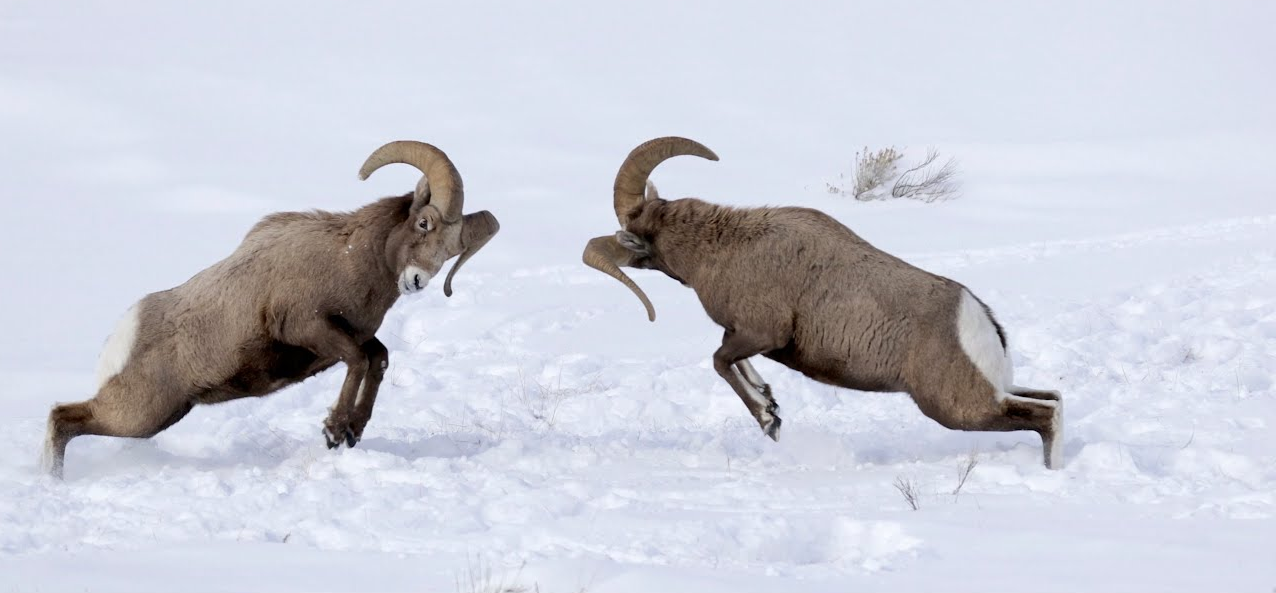
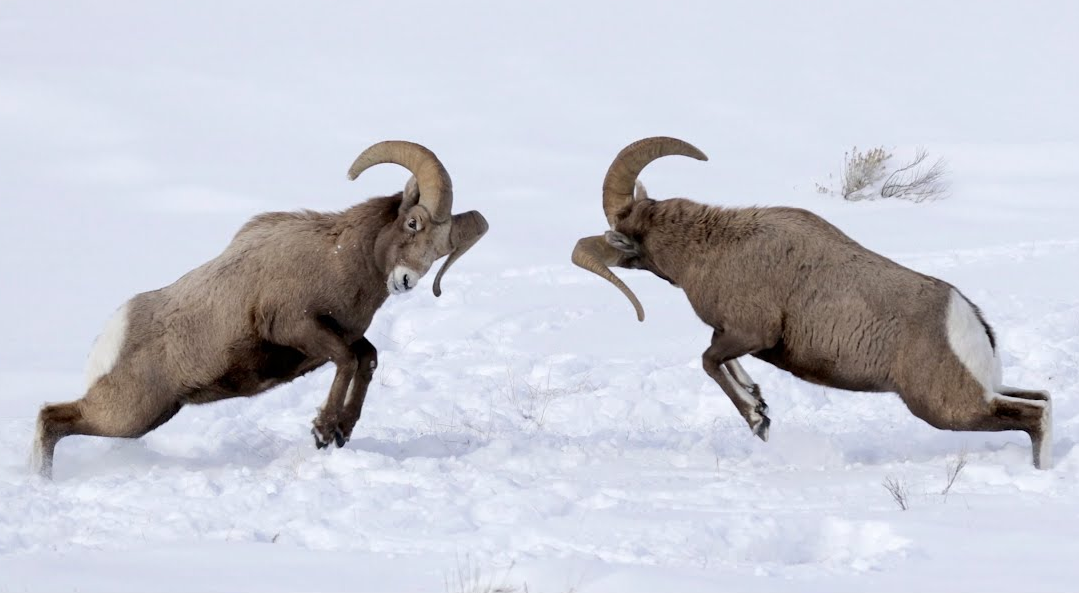
tweaks to the style of portfolio.md

diff --git a/assets/css/main.scss b/assets/css/main.scss
@@ -21,12 +21,18 @@ body { background-color: #f3f6f7; }
 .portfolio-hero { padding: 1.5rem 0 2.5rem; }
 .portfolio-hero h1 { max-width: 18ch; font-size: clamp(2rem, 5vw, 3.7rem); line-height: 1.08; }
 .portfolio-eyebrow, .project-label { color: #3d6b77; font-size: 0.72rem; font-weight: 700; letter-spacing: 0.12em; }
+.project-title { font-size: 1.3rem; }
+.btn--dark { background-color: #222; color: #fff !important; border-color: #222; }
+.btn--dark:hover { background-color: #444; border-color: #444; }
 .portfolio-lead { max-width: 44rem; font-size: 1.15rem; }
 .project-feature, .project-grid, .strength-grid, .figure-gallery { display: grid; gap: 1.5rem; }
 .project-feature { align-items: center; grid-template-columns: minmax(0, 1.15fr) minmax(15rem, 1fr); margin: 1.5rem 0 3rem; }
-.project-feature img, .project-card img, .figure-gallery img { width: 100%; margin: 0; border-radius: 0.35rem; }
-.project-grid, .strength-grid, .figure-gallery { grid-template-columns: repeat(2, minmax(0, 1fr)); }
-.project-card, .strength-grid > div { overflow: hidden; border: 1px solid #e4e7e8; border-radius: 0.4rem; background: #fff; }
+.project-feature img, .figure-gallery img { width: 100%; margin: 0; border-radius: 0.35rem; }
+.project-grid { grid-template-columns: 1fr; }
+.strength-grid, .figure-gallery { grid-template-columns: repeat(2, minmax(0, 1fr)); }
+.project-card { display: flex; flex-direction: row; overflow: hidden; border: 1px solid #e4e7e8; border-radius: 0.4rem; background: #fff; }
+.project-card a img { display: block; width: 180px; min-width: 180px; height: 100%; object-fit: cover; border-radius: 0.35rem 0 0 0.35rem; margin: 0; }
+.strength-grid > div { overflow: hidden; border: 1px solid #e4e7e8; border-radius: 0.4rem; background: #fff; }
 .project-card__body, .strength-grid > div { padding: 1.25rem; }
 .project-card--text { display: flex; align-items: center; min-height: 20rem; }
 .project-lead-image { display: block; width: min(100%, 46rem); margin: 2rem auto; }
@@ -42,5 +48,7 @@ body { background-color: #f3f6f7; }
 .result-grid small { margin-top: 0.2rem; color: #5b6265; }
 
 @media (max-width: 700px) {
-  .project-feature, .project-grid, .strength-grid, .figure-gallery, .result-grid { grid-template-columns: 1fr; }
+  .project-feature, .strength-grid, .figure-gallery, .result-grid { grid-template-columns: 1fr; }
+  .project-card { flex-direction: column; }
+  .project-card a img { width: 100%; min-width: unset; height: 180px; border-radius: 0.35rem 0.35rem 0 0; }
 }

diff --git a/_pages/portfolio.md b/_pages/portfolio.md
@@ -7,34 +7,45 @@ author_profile: true
 
 Selected data-science work demonstrating how I turn complex questions into reproducible analysis, models, software, and actionable insight. My main interest is applying these tools to sports strategy and performance, while remaining open to data-science problems in other fields.
 
-<div class="project-grid">
-  <article class="project-card">
-    <a href="/portfolio/pynamo/"><img src="/assets/images/pynamo_figures/pynamo_egt_rps.png" alt="Rock-paper-scissors phase portrait generated with pyNamo-EGT"></a>
-    <div class="project-card__body">
-      <p class="project-label">SCIENTIFIC SOFTWARE · PYTHON</p>
-      <h2><a href="/portfolio/pynamo/">pyNamo-EGT</a></h2>
-      <p>Plotting and equilibrium analysis for replicator dynamics in evolutionary games.</p>
-      <p><a href="/portfolio/pynamo/">View case study →</a> · <a href="https://github.com/SlimaneD/pynamo">Source code ↗</a></p>
-    </div>
-  </article>
+### [pyNamo-EGT](/portfolio/pynamo/)
+{: .project-title}
+<p class="project-label">SCIENTIFIC SOFTWARE · PYTHON</p>
 
-  <article class="project-card">
-    <a href="/portfolio/territorial/"><img src="/assets/images/animalFight.png" alt="Two animals contesting territory"></a>
-    <div class="project-card__body">
-      <p class="project-label">SPORTS ANALYTICS · FOOTBALL · EVOLUTIONARY GAME THEORY</p>
-      <h2><a href="/portfolio/territorial/">Territorial behavior in football</a></h2>
-      <p>Do football teams defend home ground like animals defend territory? A cross-league analysis of pressing behavior through the lens of the Hawk-Dove game.</p>
-      <p><a href="/portfolio/territorial/">View case study →</a> · <a href="https://github.com/SlimaneD/football-aggression-index">Source code ↗</a></p>
-    </div>
-  </article>
+![Rock-paper-scissors phase portrait](/assets/images/pynamo_figures/pynamo_egt_rps.png){: .align-left}{:width="220px"}
 
-  <article class="project-card">
-    <a href="/portfolio/shelton-alcaraz/"><img src="/assets/images/shelton_alcaraz/shelton_alcaraz_payoff_difference.png" alt="Payoff-difference analysis for Shelton versus Alcaraz"></a>
-    <div class="project-card__body">
-      <p class="project-label">SPORTS ANALYTICS · TENNIS</p>
-      <h2><a href="/portfolio/shelton-alcaraz/">Shelton–Alcaraz pre-match analysis (2026 US Open)</a></h2>
-      <p>Point-by-point data and an exploratory game-theoretic model of serve and serve+1 tactics.</p>
-      <p><a href="/portfolio/shelton-alcaraz/">View case study →</a> · <a href="https://github.com/SlimaneD/Shelton-Alcaraz-USOpen26">Source code ↗</a></p>
-    </div>
-  </article>
-</div>
+A Python package for plotting and analysing replicator dynamics in evolutionary games, with equilibrium analysis and interactive notebooks.
+
+[Case study](/portfolio/pynamo/){: .btn .btn--info .btn--small} [Source code](https://github.com/SlimaneD/pynamo){: .btn .btn--dark .btn--small}
+
+<br clear="all">
+
+---
+
+### [Territorial behavior in football](/portfolio/territorial/)
+{: .project-title}
+<p class="project-label">SPORTS ANALYTICS · FOOTBALL · EVOLUTIONARY GAME THEORY</p>
+
+![Territorial behavior in football](/assets/images/animalFight.png){: .align-left}{:width="320px"}
+
+A cross-league analysis of pressing behavior through the lens of the Hawk-Dove game.
+
+[Case study](/portfolio/territorial/){: .btn .btn--info .btn--small} [Source code](https://github.com/SlimaneD/football-aggression-index){: .btn .btn--dark .btn--small}
+
+<br clear="all">
+
+---
+
+### [Shelton–Alcaraz pre-match analysis (2026 US Open)](/portfolio/shelton-alcaraz/)
+{: .project-title}
+<p class="project-label">SPORTS ANALYTICS · TENNIS</p>
+
+![Shelton–Alcaraz payoff difference](/assets/images/shelton_alcaraz/shelton_alcaraz_payoff_difference.png){: .align-left}{:width="220px"}
+
+Point-by-point data and a game-theoretic model of serve and serve+1 tactics ahead of a US Open quarter-final.
+
+[Case study](/portfolio/shelton-alcaraz/){: .btn .btn--info .btn--small} [Source code](https://github.com/SlimaneD/Shelton-Alcaraz-USOpen26){: .btn .btn--dark .btn--small}
+
+<br clear="all">
+
+---
+
